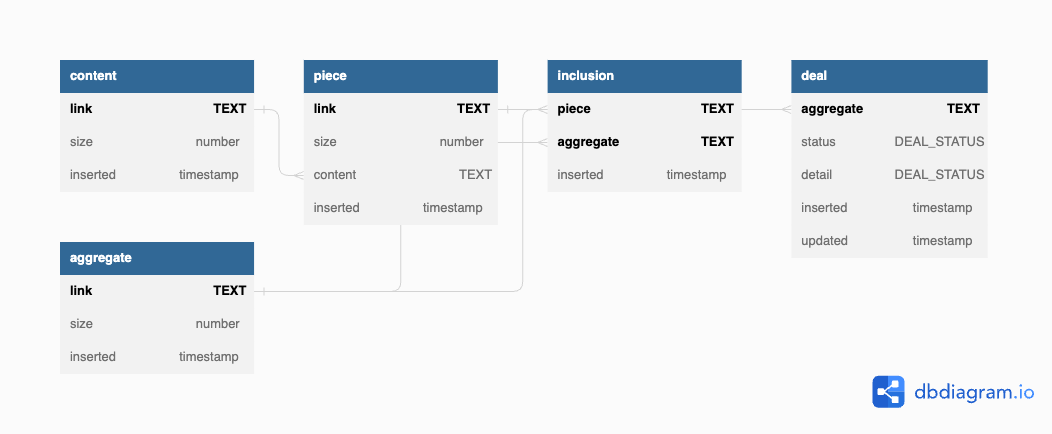
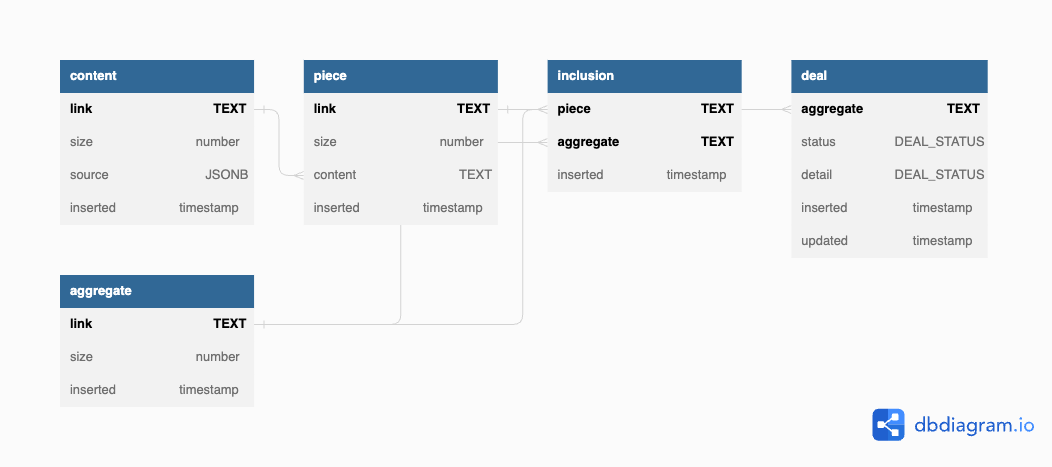
chore: use source as jsonb in architecture document

diff --git a/docs/architecture.md b/docs/architecture.md
@@ -64,10 +64,8 @@ CREATE TABLE content
   link TEXT PRIMARY KEY,
   -- CAR Size
   size number NOT NULL,
-  -- Bucket name where the CAR is
-	bucket_name TEXT NOT NULL,
-  -- Endpoint of the bucket
-  bucket_endpoint TEXT NOT NULL,
+  -- Source where the content can be fetched from
+  source JSONB NOT NULL,
   -- Timestamp
   inserted TIMESTAMP WITH TIME ZONE DEFAULT timezone('utc'::text, now()) NOT NULL
 );
